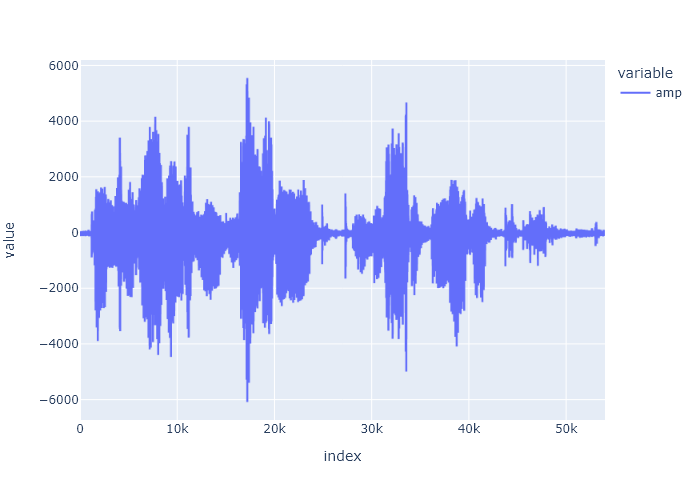
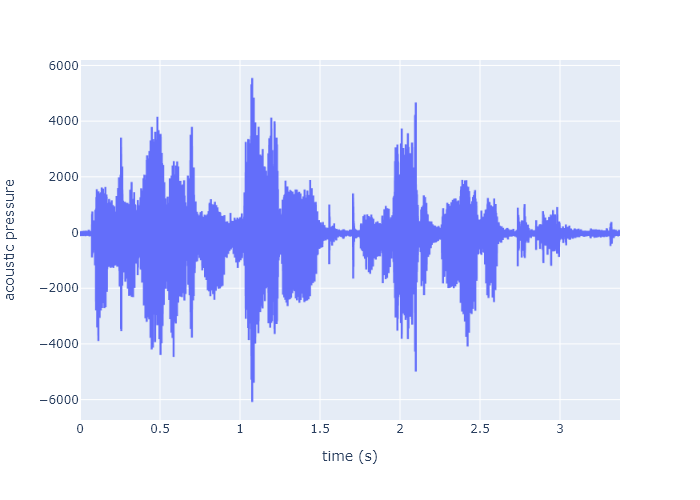
README and other cool stuff

diff --git a/CleanData/a0007/fourier.py b/CleanData/a0007/fourier.py
@@ -16,21 +16,24 @@ T = len(data)/16000 # where 16,000 is the sampling frequency
 frqLabel = k/T
 
 result = pd.DataFrame()
-result['Frequency'] = frqLabel[:(d-1)]
-result['Amplitude'] = abs(c[:(d-1)])
+result['frequency (kHz)'] = frqLabel[:(d-1)]/1000 # Convert frequencies from Hz to kHz
+result['amplitude'] = abs(c[:(d-1)])
 
-fig = px.line(result, x='Frequency', y='Amplitude')
-fig.show()
+fig = px.line(result, x='frequency (kHz)', y='amplitude')
 
-result = result.sort_values(by='Amplitude', ascending=False)
+# Works only when installing kaleido as "pip install kaleido==0.2.1.post1"
+# Discussion: https://github.com/plotly/Kaleido/issues/134
+fig.write_image("fourier.png")
+
+result = result.sort_values(by='amplitude', ascending=False)
 result = result.reset_index()
 
-amplitude1 = result['Amplitude'].loc[0]
-frequency1 = result['Frequency'].loc[0]
-amplitude2 = result['Amplitude'].loc[1]
-frequency2 = result['Frequency'].loc[1]
-amplitude3 = result['Amplitude'].loc[2]
-frequency3 = result['Frequency'].loc[2]
+amplitude1 = result['amplitude'].loc[0]
+frequency1 = result['frequency (kHz)'].loc[0]
+amplitude2 = result['amplitude'].loc[1]
+frequency2 = result['frequency (kHz)'].loc[1]
+amplitude3 = result['amplitude'].loc[2]
+frequency3 = result['frequency (kHz)'].loc[2]
 
 print('The stats for the three biggest peeks are:')
 print(f'    - amp1:     {amplitude1}')

diff --git a/CleanData/a0007/graph.py b/CleanData/a0007/graph.py
@@ -3,5 +3,10 @@ import pandas as pd
 import plotly.express as px
 
 data = pd.read_csv([file for file in os.listdir() if file.endswith('.csv')][0])
-fig = px.line(data)
+data.columns = ['acoustic pressure']
+data['time (s)'] = data.index/16000
+fig = px.line(data, x='time (s)', y='acoustic pressure')
+
+# Works only when installing kaleido as "pip install kaleido==0.2.1.post1"
+# Discussion: https://github.com/plotly/Kaleido/issues/134
 fig.write_image("graph.png")

diff --git a/README.md b/README.md
@@ -1,1 +1,37 @@
-TP2
+8PRO408 - Outils programmation pour la science des données
+Second travail pratique: Séries temporelles
+
+Réalisé par:
+    CLAUS Simon CLAS13020304
+    DUCHESNE Simon DUCS20069507
+    DUFOUR Vincent DUFV12080004
+    DU PAUL Véronique DUPV05518306
+    LAPRISE David LAPD17050101
+    MONARQUE Vincent MONV15099405
+    MORIN Gilles-Philippe MORG27109707
+    PLOURDE Louis-Gabriel PLOL24110001
+
+Voici les étapes à réaliser en ordre.
+
+Dans le dossier de téléchargement:
+    1.  a) Exécuter scraper.py (le téléchargement peut être long)
+        b) Extraire toutes les archives. Par exemple, avec 7zip:
+            7zip.exe x *.tgz
+            7zip.exe x *.tar
+            del *.tgz
+            del *.tar
+    2. Exécuter counter.py
+        a) Rouler le premier Monte-Carlo pour déterminer le nombre minimal de phrases à extraire
+        b) Avec ce nombre comme variable 'number_of_sentences', trouver le meilleur sous-ensemble
+        c) Copier les dossiers des personnes faisant partie de ce sous-ensemble
+
+Dans le dossier du projet:
+    3. Coller les dossiers précédents dans RawData
+    4. Exécuter csvGeneration.py
+    5. Exécuter main.py et conséquemment featureExtraction.py
+        - Changer la fenêtre et le chevauchement au besoin
+    6. Exécuter dimentionalityReduction.py
+
+Si on veut tester des données de façon isolée, le premier dossier de CleanData (/CleanData/a0007/) contient:
+    - graph.py, pour afficher les pressions acoustiques d'un fichier audio donné.
+    - fourier.py, pour afficher le spectre de fréquences d'un fichier audio donné.
